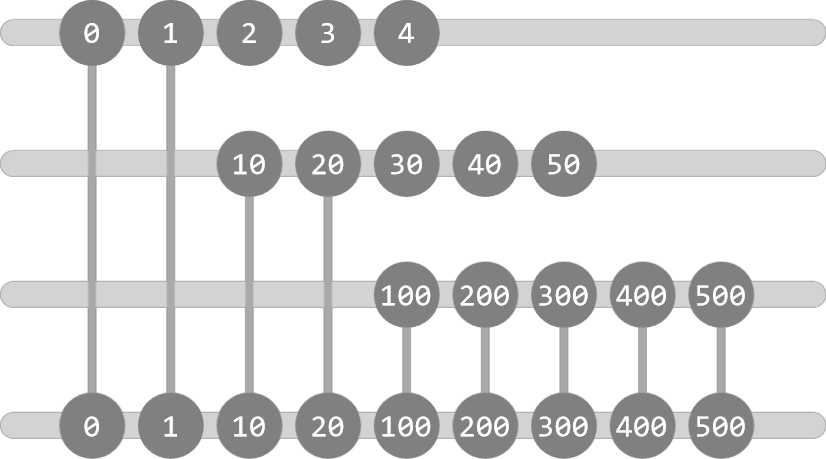
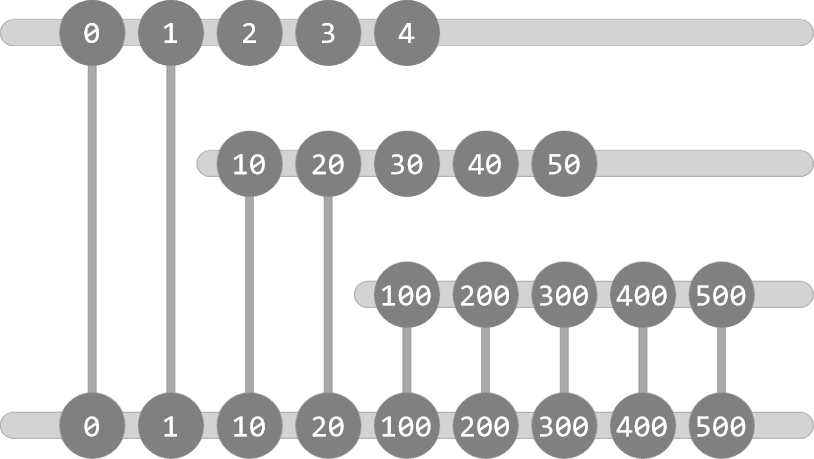
Added "Combiners" section

diff --git a/RxSamples/MainPage.xaml.cs b/RxSamples/MainPage.xaml.cs
@@ -663,5 +663,108 @@ namespace RxSamples
                 .Return(42)
                 .Finally(() => { /* ... */ });
         }
+
+        public void SelectMany()
+        {
+            var source = new[] { 'A', 'B', 'C', 'D' }
+                .ToObservable()
+                .SelectMany(letter => Observable
+                    .Range(1, 5)
+                    .Delay(number => Observable.Timer(TimeSpan.FromSeconds(number)))
+                    .Select(number => $"{letter} -> {number}"));
+
+            this.Subscribe(source, "SelectMany");
+        }
+
+        public void Merge()
+        {
+            var source = new[] { 'A', 'B', 'C', 'D' }
+                .ToObservable()
+                .Select(letter => Observable
+                    .Range(1, 5)
+                    .Delay(number => Observable.Timer(TimeSpan.FromSeconds(number)))
+                    .Select(number => $"{letter} -> {number}"))
+                .Merge();
+
+            this.Subscribe(source, "Merge");
+        }
+
+        public void Concat()
+        {
+            var source = new[] { 'A', 'B', 'C', 'D' }
+                .ToObservable()
+                .Select(letter => Observable
+                    .Range(1, 5)
+                    .Delay(number => Observable.Timer(TimeSpan.FromSeconds(number)))
+                    .Select(number => $"{letter} -> {number}"))
+                .Concat();
+
+            this.Subscribe(source, "Concat");
+        }
+
+        public void Zip()
+        {
+            var source1 = new Subject<int>();
+            var source2 = new Subject<char>();
+
+            var source = Observable.Zip(source1, source2, (i, c) => $"{i}:{c}");
+
+            this.Subscribe(source, "Zip");
+
+            source1.OnNext(0);
+            source1.OnNext(1);
+            source2.OnNext('A');
+            source2.OnNext('B');
+            source2.OnNext('C');
+            source1.OnNext(2);
+            source1.OnNext(3);
+        }
+
+        public void CombineLatest()
+        {
+            var source1 = new Subject<int>();
+            var source2 = new Subject<char>();
+
+            var source = Observable.CombineLatest(source1, source2, (i, c) => $"{i}:{c}");
+
+            this.Subscribe(source, "CombineLatest");
+
+            source1.OnNext(0);
+            source1.OnNext(1);
+            source2.OnNext('A');
+            source1.OnNext(2);
+            source1.OnNext(3);
+            source2.OnNext('B');
+        }
+
+        public void Amb()
+        {
+            var source1 = Observable
+                .Timer(TimeSpan.FromSeconds(3), TimeSpan.FromSeconds(1));
+
+            var source2 = Observable
+                .Timer(TimeSpan.FromSeconds(1), TimeSpan.FromSeconds(1))
+                .Select(x => x * 10);
+
+            var source = Observable.Amb(source1, source2);
+
+            this.Subscribe(source, "Amb");
+        }
+
+        public void Switch()
+        {
+            var baseStream = Observable
+                .Interval(TimeSpan.FromSeconds(5))
+                .Select(i => Math.Pow(10, i));
+
+            var subStreams = baseStream
+                .Select(i => Observable
+                    .Interval(TimeSpan.FromSeconds(1))
+                    .Select(j => i * j));
+
+            var source = subStreams.Switch();
+
+            this.Subscribe(source, "Switch");
+        }
     }
 }

diff --git a/TimelineGenerator/TimeLineDrawings.cs b/TimelineGenerator/TimeLineDrawings.cs
@@ -189,7 +189,10 @@ namespace TimelineGenerator
 
         public async Task Switch()
         {
-            this.timelineDrawer.DrawTimeLine(4);
+            this.timelineDrawer.DrawTimeLine(0, 0, 1000);
+            this.timelineDrawer.DrawTimeLine(1, 250, 1000);
+            this.timelineDrawer.DrawTimeLine(2, 450, 1000);
+            this.timelineDrawer.DrawTimeLine(3, 0, 1000);
 
             this.timelineDrawer.AddEventToTimeLine(0, 100, "0");
             this.timelineDrawer.AddEventToTimeLine(0, 200, "1");

diff --git a/Draft.md b/Draft.md
@@ -1886,29 +1886,133 @@ It also worth mentioning that while you are absolutely free to use these operato
 
 ### Combiners
 
-#### SelectMany
+#### SelectMany, Merge and Concat
 
-#### Merge
+These operators are really similar, it's just a matter of configuration that differentiates them.
+
+##### SelectMany
+
+The `SelectMany()` operator might sound familiar from the traditional LINQ world. Somehow you end up having a collection of collections and you want to flatten this two dimensional hierarchy to just one dimension by appending each sub-collection after each other.
+
+The difference in the Rx world compared to the LINQ world is that things are happening asynchronously and in parallel, so what you will get on the resulting stream is a mix of all the sub-streams that you generated (or retrieved) from the events.
+
+This particular operator offers a huge amount of overloads but the basic idea is always the same: have an original "one dimensional" stream, for each event generate/extract some kind of sub-stream (or collection or `Task`) (at this point you have a "two dimensional" stream) and "merge" all these sub-streams into one result stream.
+
+##### Merge
+
+A simplified version of this is the `Merge()` operator that has only 2 overloads and it will only do the "merging" part of the `SelectMany()` operator. It will just take a couple of already existing (but not necessarily active) streams and merge them (in contrary to the `SelectMany()` that creates the many streams as part of its logic).
+
+The `Merge()` operator has an overload where you can specify a number that will limit the maximum number of concurrent subscribtions to the underlying sub-streams.
+
+You can also think about the connection between `SelectMany()` and `Merge()` in a way that you can represent the functionality of `SelectMany()` with the combination of the `Select()` and `Merge()` operators.
 
 ![](Marble%20Diagrams/Merge.png)
 
-#### Concat
+##### Concat
+
+And last but not least, in this group, comes the `Concat()` operator, which is basically the same as `Merge(1)`, meaning it will subscribe to the sub-streams sequentially, one-by-one, concatenating them after each other instead of subscribing to many of them and merging their events.
+
+This example shows two hot observables using the `Concat()` operator, and as you can see it only starts looking at the second stream after the first one completed.
 
 ![](Marble%20Diagrams/Concat.png)
 
-#### Zip
+#### Zip and CombineLatest
+
+Until this point we were only discussing flattening operators that were combining multiple streams into one. But what if you want to do some kind of join?
+
+Doing traditional LINQ/SQL style join on streams might not be the best idea (though it's obviously not impossible to do). Instead you might be interested in "order based" joins like combining events with the same index from multiple streams (first element on one stream with the first element on the other stream, second with second, third with third, etc.), or always having an up-to-date combination of the latest elements on all streams.
+
+Doing traditional "equality based" join would mean that you subscribe to multiple streams, store all the events in a collection that ever appeared in them, and whenever any of them emmits an event, you try to join it with the stored collections and if successful, produce an event in the result stream containing the joined events.
+
+##### Zip
+
+So the first version of "order based" joining is when you join events from multiple streams based on their indexes. This can be achieved with the `Zip()` operator.
+
+To demonstrate it I will use two subjects and manually send events to them in mixed up order to then see the result being nicely "zipped" by the operator.
+
+```csharp
+var source1 = new Subject<int>();
+var source2 = new Subject<char>();
+
+var source = Observable.Zip(source1, source2, (i, c) => $"{i}:{c}");
+
+source1.OnNext(0);
+source1.OnNext(1);
+source2.OnNext('A');
+source2.OnNext('B');
+source2.OnNext('C');
+source1.OnNext(2);
+source1.OnNext(3);
+```
 
 ![](Marble%20Diagrams/Zip.png)
 
 #### CombineLatest
 
+The second version of the "order based" join is when you are interested in the combination of the latest events on all streams every time any of the streams produces a new event.
+
+A typical example for this would be to keep track of the key (or keys) pressed on the keyboard at the time the user clicks with their mouse. Depending on whether they pressed the CTRL or ALT or SHIFT or none of them (or a combination of those), you might have to do different things (selection, scaling, panning, etc.). I will not show such a complicated logic here, I will just reach for some subjects again to manually push events to demonstrate how the operator works.
+
+```csharp
+var source1 = new Subject<int>();
+var source2 = new Subject<char>();
+
+var source = Observable.CombineLatest(source1, source2, (i, c) => $"{i}:{c}");
+
+source1.OnNext(0);
+source1.OnNext(1);
+source2.OnNext('A');
+source1.OnNext(2);
+source1.OnNext(3);
+source2.OnNext('B');
+```
+
 ![](Marble%20Diagrams/CombineLatest.png)
 
-#### Amb
+#### Amb and Switch
+
+The `Amb()` and `Switch()` operators are designed to receive multiple streams and keep alive only one of them.
+
+##### Amb
+
+The `Amb()` will receive many streams, subscribe to them and wait for the first one to emmit an event and keep only that stream and throw away the rest of the streams.
+
+```csharp
+var source1 = Observable
+    .Timer(TimeSpan.FromSeconds(3), TimeSpan.FromSeconds(1));
+
+var source2 = Observable
+    .Timer(TimeSpan.FromSeconds(1), TimeSpan.FromSeconds(1))
+    .Select(x => x * 10);
+
+var source = Observable.Amb(source1, source2);
+```
 
 ![](Marble%20Diagrams/Amb.png)
 
-#### Switch
+##### Switch
+
+In contrary to `Amb()`, `Switch()` always switches to the freshest stream. It doesn't work with a collection of streams, it works on a stream of streams and always only listens to the latest sub-stream. It's a little bit like `Concat()` but it forcibly closes the previous sub-stream if a new one appears instead of waiting for it to naturally complete and switching to the next one only after that.
+
+To demonstrate this I will do the following:
+* Create a base stream that will provide powers of 10 (10, 100, 1000, etc.) every 5 seconds
+* And on each event generate a sub-stream that will produce a sequence of numbers multiplied by the number from the base stream's event, so (1, 2, 3 or 10, 20, 30 or 100, 200, 300, etc.)
+* And as a last step, apply the `Switch()` operator on the resulting stream of streams
+
+```csharp
+var baseStream = Observable
+    .Interval(TimeSpan.FromSeconds(5))
+    .Select(i => Math.Pow(10, i));
+
+var subStreams = baseStream
+    .Select(i => Observable
+        .Interval(TimeSpan.FromSeconds(1))
+        .Select(j => i * j));
+
+var source = subStreams.Switch();
+```
+
+The result will look something like this:
 
 ![](Marble%20Diagrams/Switch.png)
 
